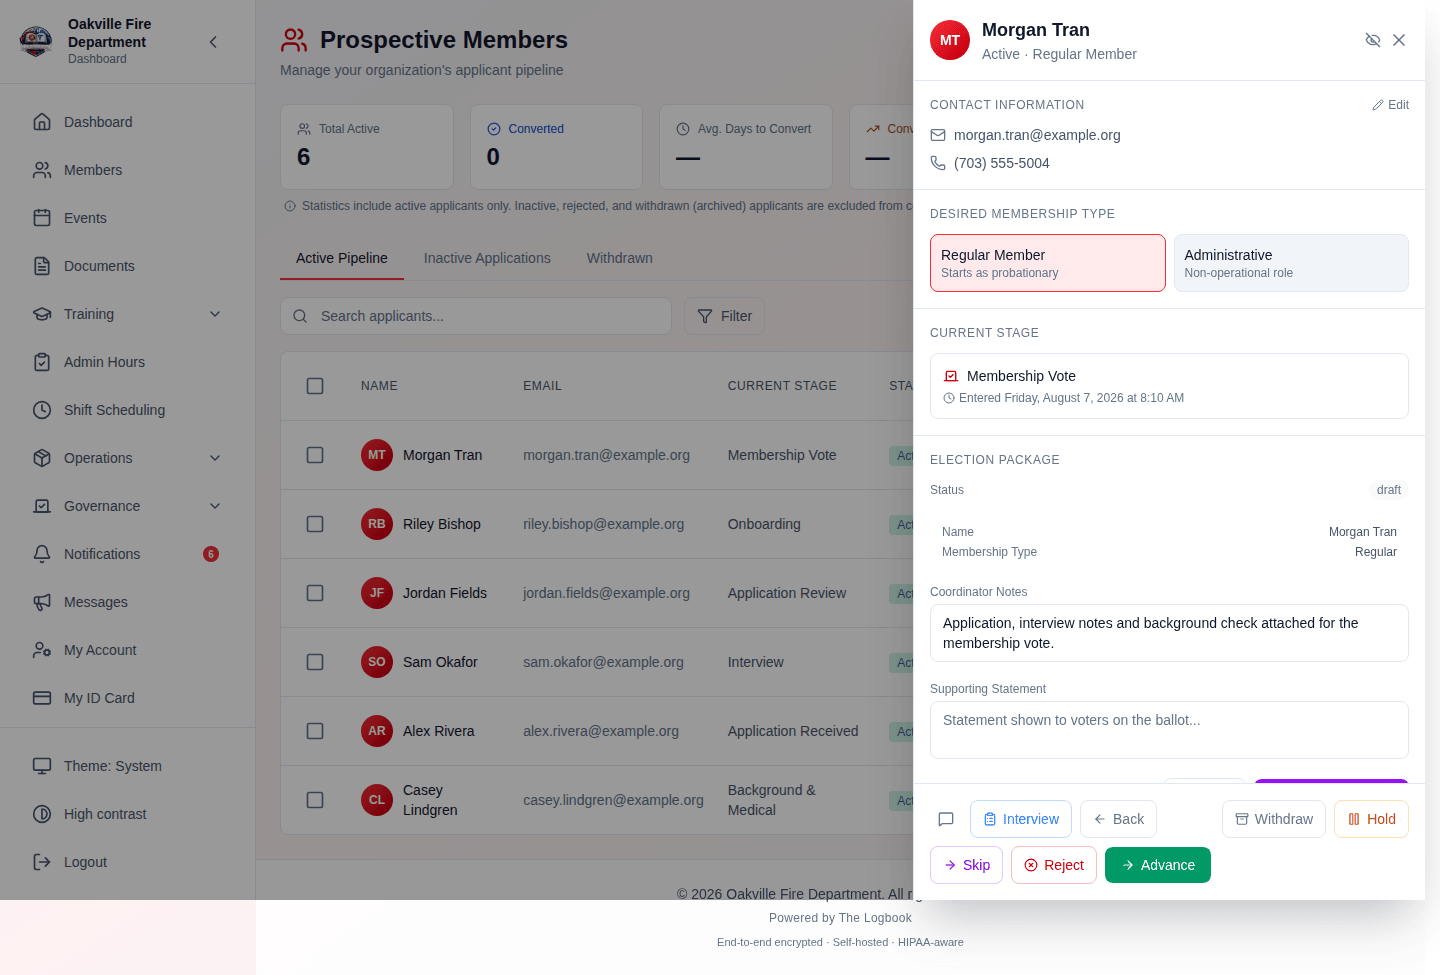
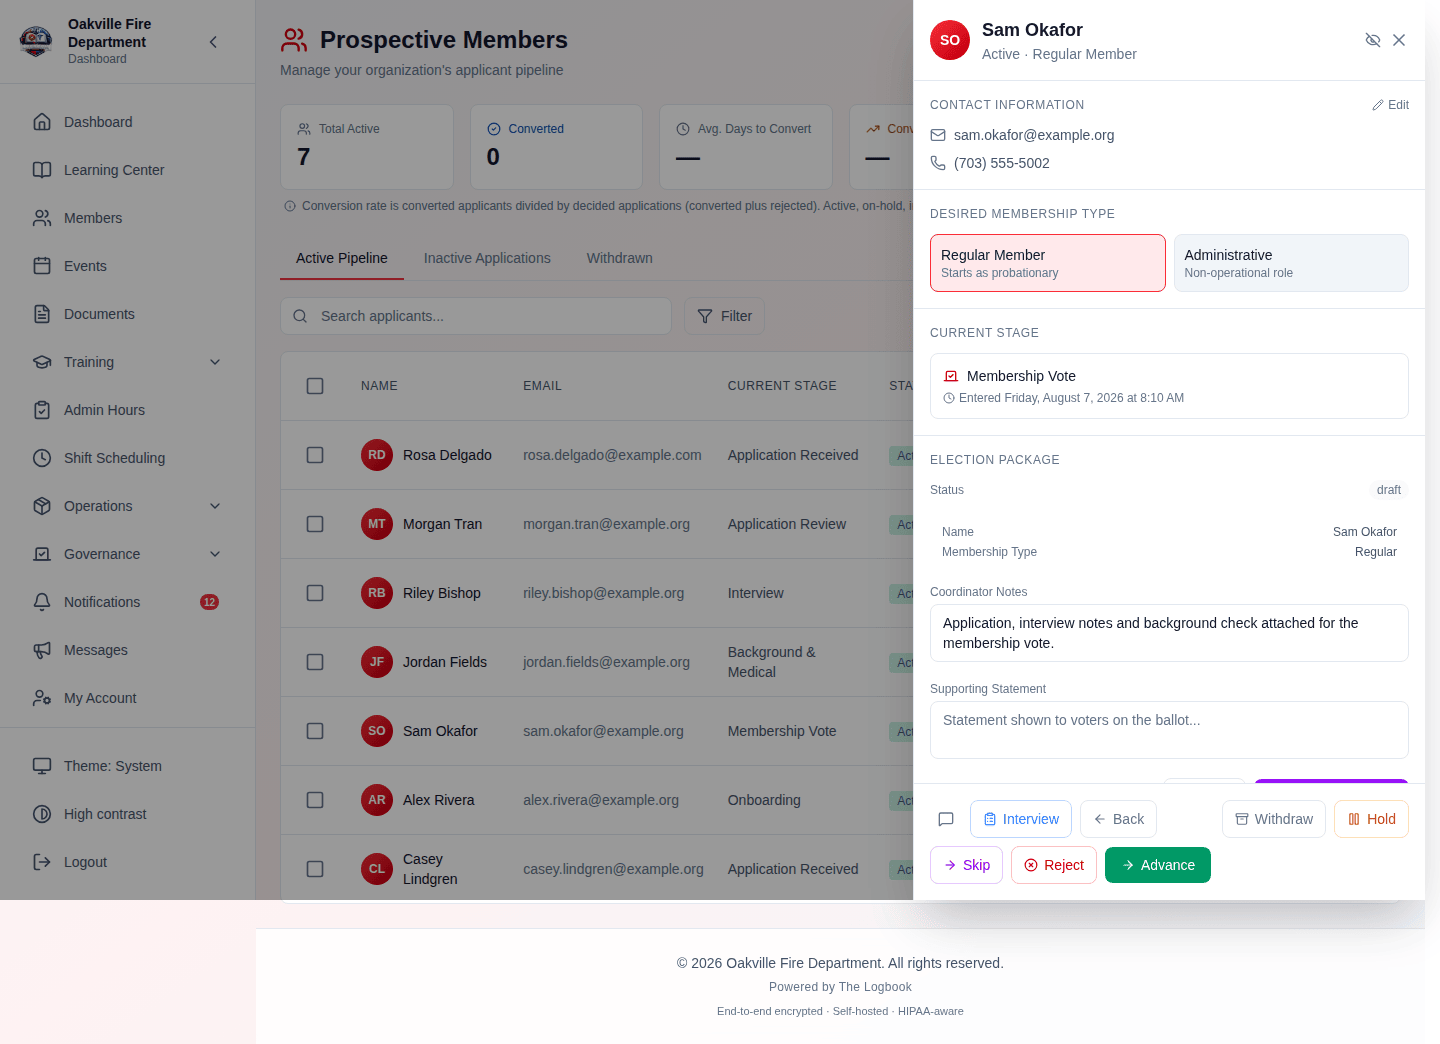
fix(seed): let the applicant spread move backwards, and match shots by stage
`15-08-election-package` promises "an applicant at the vote", and the
election-package section renders only on an election_vote stage. Two things
stopped that being true, and the first hid the second.

The spread only moved applicants forward. `15-09-bulk-action-result` runs a
real bulk advance during capture, so once it had run every applicant sat at the
final stage — and stayed there across re-seeds, because nothing could move them
back. The manifest assumes re-seeding restores the mixed page; that only holds
if the spread is restorative, which it now is via /regress. The board returns to
one applicant per stage.

With the spread restored, the shot broke differently: it named its applicant,
`openApplicantDrawer("Morgan Tran")`, and Morgan Tran is no longer at the vote.
`openApplicantAtStage` matches the table's Current Stage column instead, so a
different seeding order cannot silently point the shot at the wrong person —
which is how it came to picture someone at Onboarding under a caption about the
vote in the first place.

Verified: the drawer shows Sam Okafor at Membership Vote with the election
package section — status, name, membership type, coordinator notes, supporting
statement — over a board spread across all six stages.

Claude-Session: https://claude.ai/code/session_01MR3YDBTkhiX8tzyQovuUKc

diff --git a/scripts/screenshots/seed_demo_data.py b/scripts/screenshots/seed_demo_data.py
@@ -8726,6 +8726,23 @@ class Seeder:
                 current = order.index(pick(prospect, "current_step_id"))
             except ValueError:
                 current = 0
+
+            # Move *back* as well as forward. `15-09-bulk-action-result` runs a
+            # real bulk advance during capture, and the manifest assumes a
+            # re-seed restores the mixed page it needs — which only holds if
+            # this can undo that. Advancing alone left every applicant parked at
+            # the final stage after one capture run, permanently, and
+            # `15-08-election-package` then pictured an applicant past the vote
+            # under a caption about being at it.
+            for _ in range(current - target):
+                try:
+                    self.api.post(
+                        f"/prospective-members/prospects/{prospect_id}/regress"
+                    )
+                except ApiError as exc:
+                    self.blocked.append(f"regress applicant: {exc}")
+                    break
+
             for _ in range(target - current):
                 try:
                     self.api.post(

diff --git a/docs/training/SCREENSHOT_CURRENCY.md b/docs/training/SCREENSHOT_CURRENCY.md
@@ -43,6 +43,30 @@ committed. Images that changed but were not opened are deliberately left
 uncommitted rather than taken on trust — see the navigation incident below for
 why that rule exists.
 
+### 15-08-election-package was pointing at the wrong applicant, twice over
+
+Its caption promises "an applicant at the vote", and the election-package
+section only renders on an `election_vote` stage. Two separate things stopped
+that being true, and the first hid the second:
+
+1. **The seeder could not restore the spread.** `_spread_prospects_across_stages`
+   only moved applicants _forward_, so once `15-09-bulk-action-result`'s real
+   bulk advance had run, every applicant was parked at the final stage —
+   permanently, across re-seeds. The manifest assumes a re-seed restores the
+   mixed page; that only holds if the spread can move applicants back, which it
+   now does via `/regress`. The board goes back to one applicant per stage.
+2. **The shot named its applicant.** `openApplicantDrawer("Morgan Tran")` tied
+   it to one seeding order. With the spread restored, Morgan Tran is at
+   Interview. A new `openApplicantAtStage("Membership Vote")` matches the
+   table's Current Stage column instead, so a different spread cannot silently
+   point the shot at somebody who is not at the vote.
+
+Verified: the drawer now shows Sam Okafor at Membership Vote with the ELECTION
+PACKAGE section — status, name, membership type, coordinator notes and
+supporting statement — over a board spread across all six stages.
+
+`15-12-pipeline-stats` also verified: the four stat cards, Total Active 7.
+
 ### A regression I introduced, and the capture-order trap that exposed it
 
 **I broke an endpoint two ticks earlier and only found it now.** Declaring
